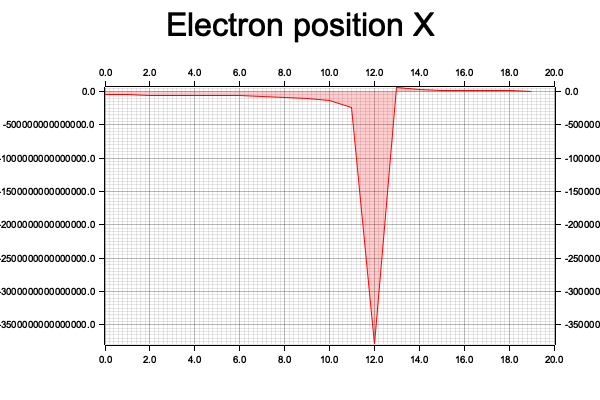
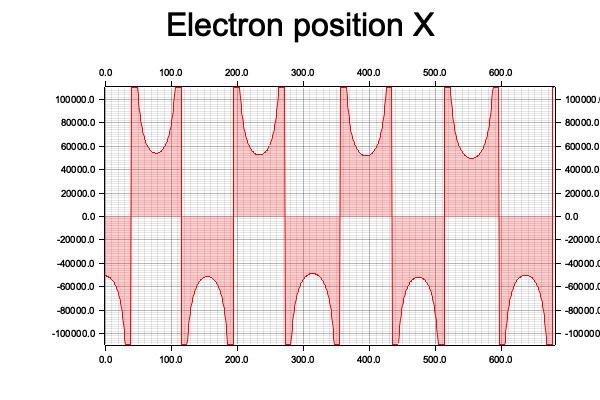
Clipping of the max force at the close encouter behaves well.

diff --git a/molekular/src/simulation.rs b/molekular/src/simulation.rs
@@ -1,6 +1,7 @@
 use crate::atom;
 use crate::particle;
 use kiss3d::nalgebra::Vector3;
+use std::cmp::{max, min};
 
 const COULUMB_CONSTANT: f64 = 9.0 * 10e9;
 
@@ -55,7 +56,8 @@ impl Simulation {
                     f_charge / d_vec.z
                 };
 
-                let q_force = Vector3::new(f_x, f_y, f_z);
+                const L: f64 = 1e-16;
+                let q_force = Vector3::new( f_x.clamp(-L, L), f_y.clamp(-L, L), f_z.clamp(-L, L)) * self.delta_t;
 
                 println!("Position before:");
                 for k in 0..p.len() {
@@ -68,7 +70,7 @@ impl Simulation {
                 let mass_i = p[i].m;
                 let mass_j = p[j].m;
                 p[i].a = q_force / mass_i;
-                p[j].a = q_force / mass_j;
+                p[j].a = -q_force / mass_j;
                 // let d_i = p[i].a;
                 // let d_j = p[j].a * self.delta_t / p[j].m;
                 let accel_i = p[i].a;

diff --git a/molekular/src/main.rs b/molekular/src/main.rs
@@ -62,11 +62,11 @@ impl State for AppState {
 }
 
 fn main() {
-    // let steps = -1;
-    let steps = 20;
+    let steps = -1;
+    // let steps = 150;
 
     // create a simulation with deltaT = 1fs and temperature = 500 K
-    let mut simulation = simulation::Simulation::new(1e-13, 500.0);
+    let mut simulation = simulation::Simulation::new(1e-9, 500.0);
 
     let hydrogen =
         atom::Atom::create_hidrogen(Vector3::new(0.0, 0.0, 0.05 * (1.0 / SIMULATION_SCALE)));
